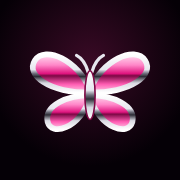
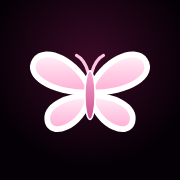
Mariposas en rosado pastel, sin plateado
Alina no quiere plateado: todas las mariposas (las de arriba, las posadas
en el botón, las que titilan, la lluvia al apretar Alina y el ícono de la
app) pasan al mismo rosado pastel del botón, con bordes blancos.

Changed region(s): [[0.1667, 0.3056, 0.8333, 0.7222]]

diff --git a/index.html b/index.html
@@ -37,11 +37,25 @@
           <stop offset="0.75" stop-color="#d9d9e2"/>
           <stop offset="1" stop-color="#fff"/>
         </linearGradient>
+        <!-- Mariposas en rosado pastel, como el botón Alina (Alina no quiere plateado) -->
+        <linearGradient id="pastel-ala" x1="0" y1="0" x2="0" y2="1">
+          <stop offset="0" stop-color="#fff2f8"/>
+          <stop offset="0.45" stop-color="#ffd2e8"/>
+          <stop offset="1" stop-color="#ffaed4"/>
+        </linearGradient>
+        <linearGradient id="pastel-contorno" x1="0" y1="0" x2="0" y2="1">
+          <stop offset="0" stop-color="#ffd9eb"/>
+          <stop offset="1" stop-color="#ff9fcd"/>
+        </linearGradient>
+        <linearGradient id="pastel-cuerpo" x1="0" y1="0" x2="0" y2="1">
+          <stop offset="0" stop-color="#f7a8cf"/>
+          <stop offset="1" stop-color="#c94d8a"/>
+        </linearGradient>
         <path id="ala-arriba" d="M100 68C82 22 30-2 14 22 0 44 34 72 100 72Z"/>
         <path id="ala-abajo" d="M100 76C66 76 28 92 34 118c6 22 48 12 66-38Z"/>
         <g id="alas-izquierdas">
-          <use href="#ala-arriba" fill="url(#cromo-rosa)" stroke="url(#cromo-plata)" stroke-width="7"/>
-          <use href="#ala-abajo" fill="url(#cromo-rosa)" stroke="url(#cromo-plata)" stroke-width="7"/>
+          <use href="#ala-arriba" fill="url(#pastel-ala)" stroke="#fff" stroke-width="7"/>
+          <use href="#ala-abajo" fill="url(#pastel-ala)" stroke="#fff" stroke-width="7"/>
         </g>
         <!-- Las cuatro alas sin color: el color lo pone quien las usa -->
         <g id="alas-forma">
@@ -51,13 +65,13 @@
           <use href="#ala-abajo" transform="translate(200 0) scale(-1 1)"/>
         </g>
         <g id="cuerpo-mariposa">
-          <path d="M97 40c-4-14-10-22-18-26M103 40c4-14 10-22 18-26" fill="none" stroke="#e6e6ee" stroke-width="4" stroke-linecap="round"/>
-          <ellipse cx="100" cy="76" rx="7" ry="36" fill="url(#cromo-plata)" stroke="#7d0845" stroke-width="2"/>
+          <path d="M97 40c-4-14-10-22-18-26M103 40c4-14 10-22 18-26" fill="none" stroke="#ffc4e1" stroke-width="4" stroke-linecap="round"/>
+          <ellipse cx="100" cy="76" rx="7" ry="36" fill="url(#pastel-cuerpo)" stroke="#fff" stroke-width="2"/>
         </g>
         <!-- Mariposa Y2K: contorno de cromo rosa y mariposa rellena adentro -->
         <g id="mariposa-doble">
-          <use href="#alas-forma" fill="none" stroke="url(#cromo-rosa)" stroke-width="6" transform="translate(100 72) scale(1.16) translate(-100 -72)"/>
-          <use href="#alas-forma" fill="url(#cromo-rosa)" stroke="#ffd0ea" stroke-width="3" transform="translate(100 74) scale(0.74) translate(-100 -72)"/>
+          <use href="#alas-forma" fill="none" stroke="url(#pastel-contorno)" stroke-width="6" transform="translate(100 72) scale(1.16) translate(-100 -72)"/>
+          <use href="#alas-forma" fill="url(#pastel-ala)" stroke="#fff" stroke-width="3" transform="translate(100 74) scale(0.74) translate(-100 -72)"/>
           <use href="#cuerpo-mariposa" transform="translate(100 74) scale(0.74) translate(-100 -72)"/>
         </g>
         <symbol id="mariposas-y2k" viewBox="-24 -20 250 230">
@@ -68,7 +82,7 @@
           <use href="#mariposa-doble"/>
         </symbol>
         <symbol id="mariposa-plata" viewBox="0 0 200 140">
-          <use href="#alas-forma" fill="url(#cromo-plata)" stroke="#ff86c8" stroke-width="8"/>
+          <use href="#alas-forma" fill="url(#pastel-ala)" stroke="#ff9fcd" stroke-width="8"/>
           <use href="#cuerpo-mariposa"/>
         </symbol>
       </defs>

diff --git a/css/styles.css b/css/styles.css
@@ -950,15 +950,16 @@ body[data-tipo='vista'] .barra {
   aspect-ratio: 1;
   opacity: 0;
   pointer-events: none;
-  background: var(--cromo-rosa);
+  background: linear-gradient(180deg, #ffd9eb, #ff9fcd);
   -webkit-mask: var(--forma) center / contain no-repeat;
   mask: var(--forma) center / contain no-repeat;
   animation: chispa 1.1s ease-out forwards;
   animation-delay: var(--retraso);
 }
 
+/* Mariposas más claras, para que la lluvia tenga dos tonos de rosado pastel */
 .chispa-plata {
-  background: var(--cromo-plata);
+  background: linear-gradient(180deg, #fff2f8, #ffc4e1);
 }
 
 @keyframes chispa {

diff --git a/PLAN.md b/PLAN.md
@@ -123,7 +123,7 @@ Referencias:
 - [docs/referencia-estilo.png](docs/referencia-estilo.png): la primera referencia
 
 **Lo que va y lo que no:**
-- **Sin puntitos de glitter.** El brillo viene de los reflejos del cromo y de las mariposas plateadas.
+- **Sin puntitos de glitter.** El brillo viene de los reflejos del cromo; las mariposas van en rosado pastel, sin plateado (lo pidió Alina).
 - **Colores:**
   - cromo rosa: degradado de `#ffe0f1` a `#ff86c8`, `#e0157f` y `#7d0845`
   - cromo plata: degradado de blanco a gris oscuro y de vuelta a blanco
@@ -132,9 +132,9 @@ Referencias:
 - **Texto de cromo** (clase `.cromo`): relleno plateado, borde rosa grueso con relieve oscuro, un filo claro y un reflejo de luz que lo recorre cada pocos segundos.
 - **Decoración:**
   - grupos de mariposas Y2K de cromo rosa con contorno, que flotan en las esquinas del encabezado
-  - mariposas plateadas pequeñas que titilan alrededor del nombre
-- **Botones de píldora** (Alina, Agregar prenda, Crear combinación): fondo en degradado rosado pastel, sin metal, con brillo de vidrio arriba. El texto va en letras vino con borde blanco, para que se lea bien. Lo eligió Alina. El botón Alina tiene además dos mariposas de cromo posadas que aletean.
-  - Al apretarlo, las mariposas salen volando y vuelven, y salen mariposas rosadas y plateadas hacia todos lados.
+  - mariposas pequeñas rosado pastel que titilan alrededor del nombre
+- **Botones de píldora** (Alina, Agregar prenda, Crear combinación): fondo en degradado rosado pastel, sin metal, con brillo de vidrio arriba. El texto va en letras vino con borde blanco, para que se lea bien. Lo eligió Alina. El botón Alina tiene además dos mariposas rosado pastel posadas que aletean.
+  - Al apretarlo, las mariposas salen volando y vuelven, y salen mariposas en dos tonos de rosado pastel hacia todos lados.
 - **Marcos:** bordes finos de cromo rosa sobre fondo negro.
 - **Mezcla con Apple (iOS 26):** la estructura y la forma de interactuar son de Apple; la decoración sigue siendo Y2K. Se sigue la skill `apple-design`, instalada en `.claude/skills/`.
   - **Barra de abajo:** cápsula de vidrio flotante con borde de cromo rosa y una burbuja que se desliza a la pestaña activa.
@@ -266,7 +266,7 @@ Es la parte técnicamente más difícil.
 - [ ] Probar con el armario real de Alina y ajustar las reglas de combinación si algo no le convence
 
 ### Fase 6: Pulido
-- [x] Ícono de la app: mariposa de cromo rosa (`assets/icono.svg`, `icono-32.png` para la pestaña y `icono-180.png` para la pantalla de inicio del iPhone)
+- [x] Ícono de la app: mariposa rosado pastel (`assets/icono.svg`, `icono-32.png` para la pestaña y `icono-180.png` para la pantalla de inicio del iPhone)
 - [ ] Instalable en la pantalla de inicio del iPhone (manifest y barra de estado)
 - [ ] Pantalla de bienvenida que explique cómo agregarla a la pantalla de inicio
 - [ ] `navigator.storage.persist()` para que iOS no borre el armario

diff --git a/CLAUDE.md b/CLAUDE.md
@@ -1,6 +1,6 @@
 # Alimichu
 
-Armario digital para Alina: fotografía su ropa (guardada con fondo blanco) y genera outfits que combinan con un botón grande "Alina". Estética Y2K de los 2000 tipo Bratz: cromo rosa y plata sobre negro, con mariposas (nunca estrellas), sin puntitos de glitter (ver sección 3 de PLAN.md). Para el texto de cromo se usa la clase `.cromo` con `data-texto`, con la letra Shrikhand (elegida por la dueña). La estructura y las interacciones siguen el estilo de Apple (iOS 26): barra de vidrio flotante, portadas con botones que llevan a vistas de detalle y respuesta inmediata al tocar. Para eso se usa la skill `apple-design` de `.claude/skills/`. Hecha con HTML, CSS y JavaScript puros (sin frameworks ni build), publicada en GitHub Pages: https://arielnoob24.github.io/Alimichu/
+Armario digital para Alina: fotografía su ropa (guardada con fondo blanco) y genera outfits que combinan con un botón grande "Alina". Estética Y2K de los 2000 tipo Bratz: cromo rosa y plata sobre negro, con mariposas (nunca estrellas). Las mariposas y los botones de píldora van en rosado pastel, sin plateado (lo pidió Alina); sin puntitos de glitter (ver sección 3 de PLAN.md). Para el texto de cromo se usa la clase `.cromo` con `data-texto`, con la letra Shrikhand (elegida por la dueña). La estructura y las interacciones siguen el estilo de Apple (iOS 26): barra de vidrio flotante, portadas con botones que llevan a vistas de detalle y respuesta inmediata al tocar. Para eso se usa la skill `apple-design` de `.claude/skills/`. Hecha con HTML, CSS y JavaScript puros (sin frameworks ni build), publicada en GitHub Pages: https://arielnoob24.github.io/Alimichu/
 
 Pensada para celular. Los datos (prendas, fotos, favoritos) se guardan en IndexedDB, solo en el navegador; no hay servidor.
 
